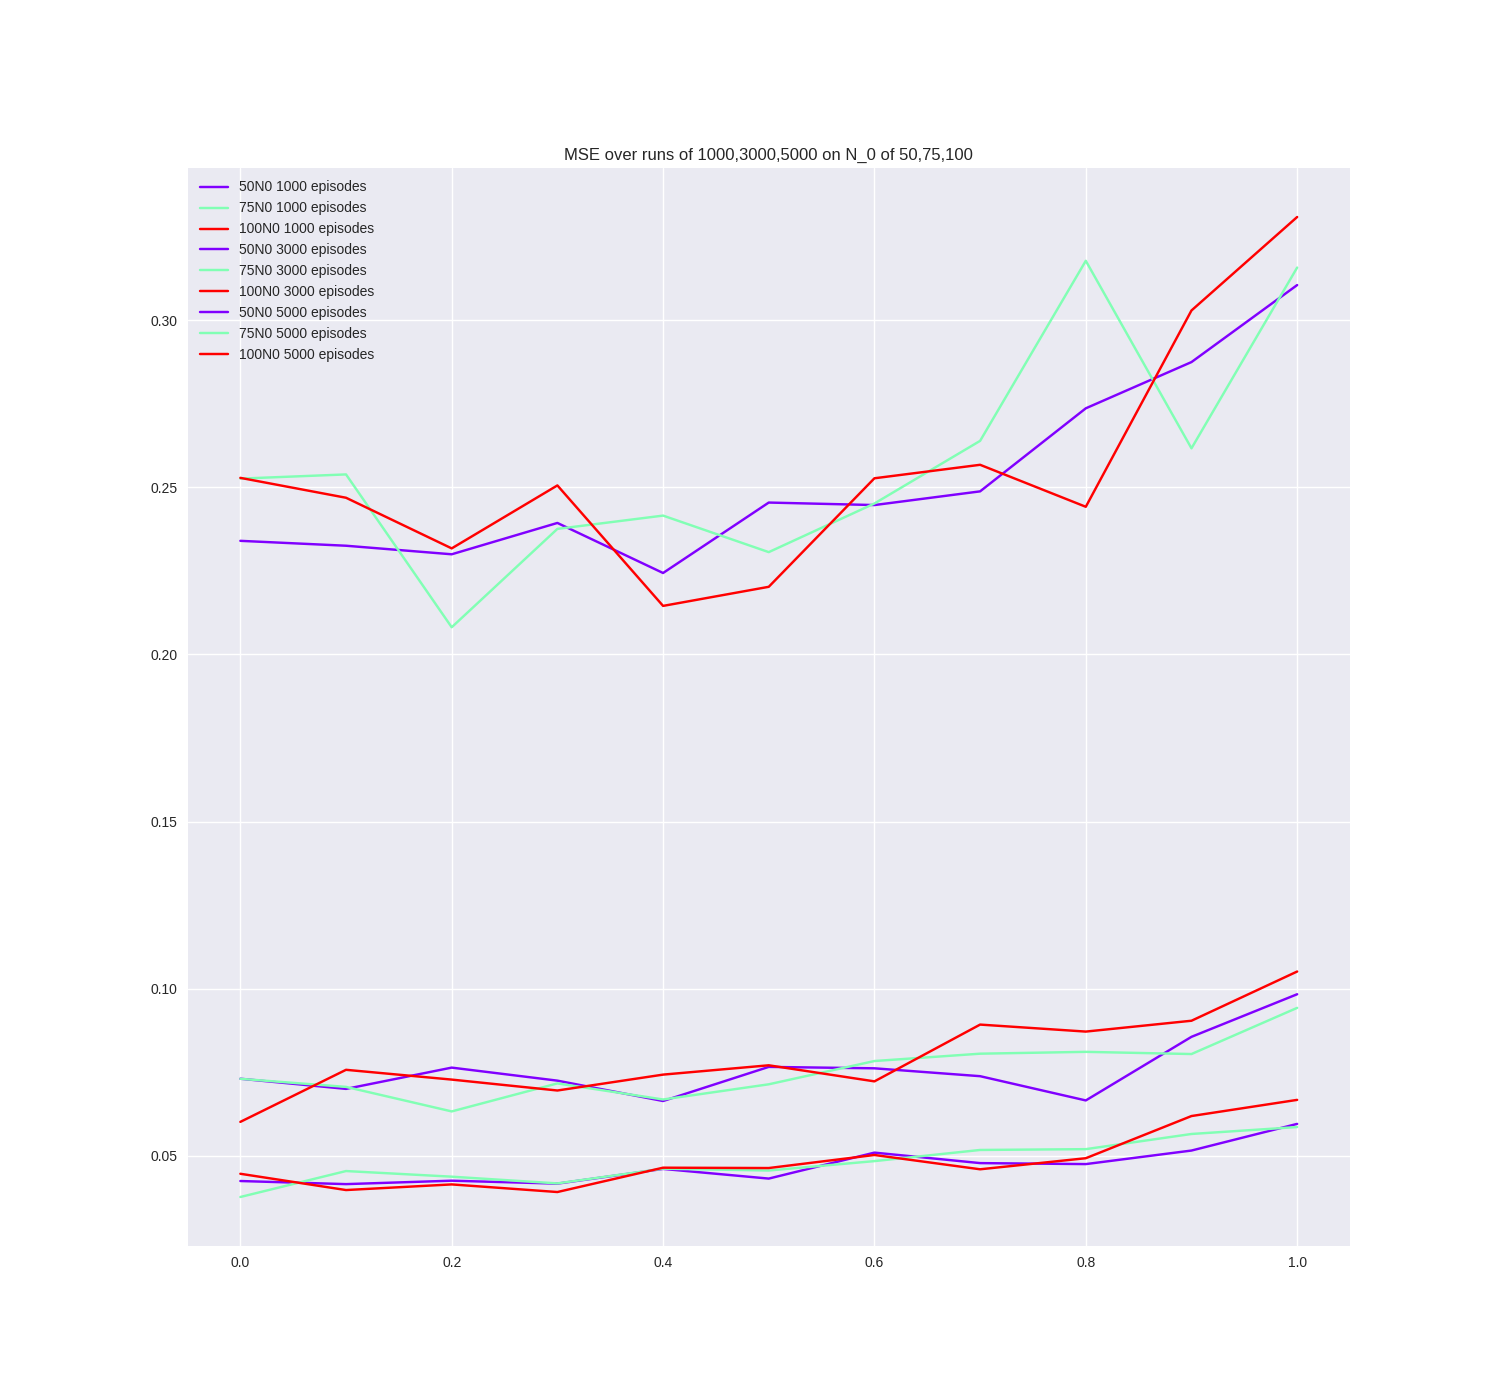
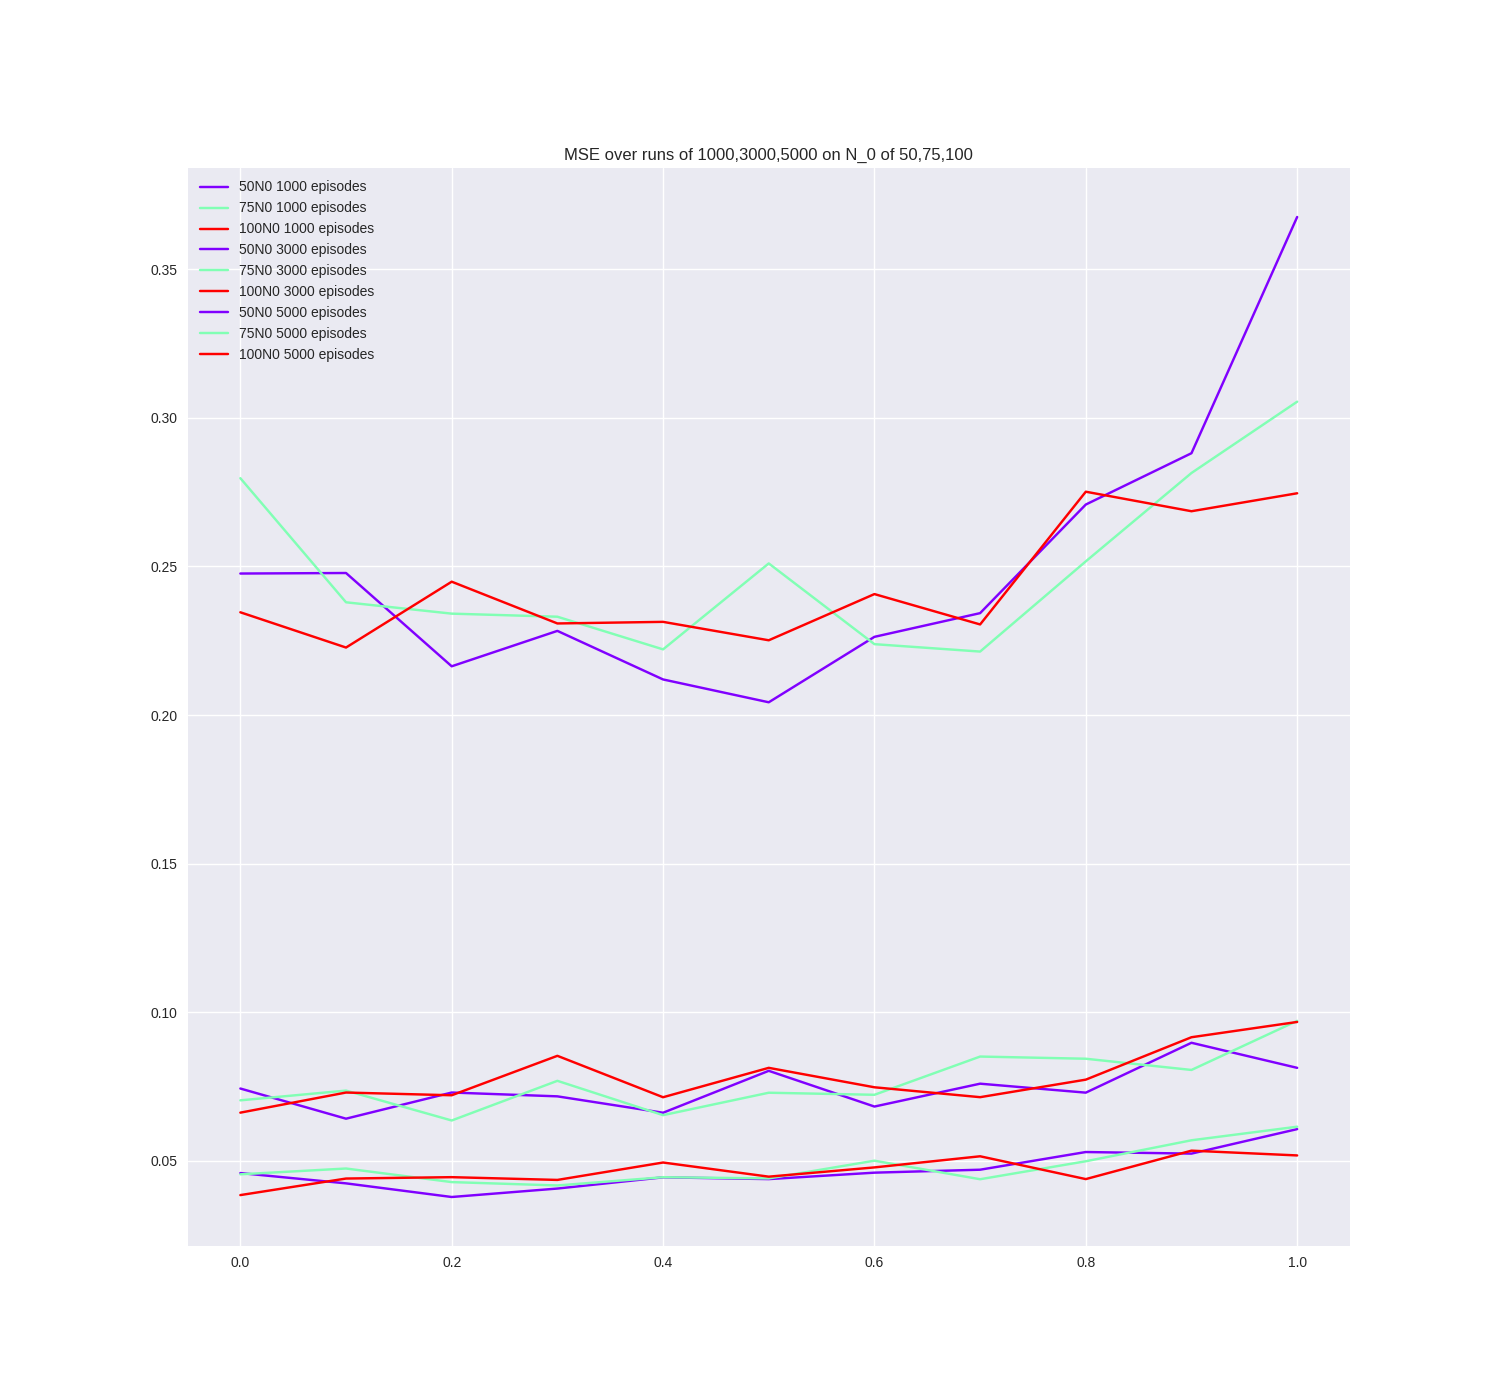
Finished linear func approximation

diff --git a/utilities/plot_surface_decision_bound.py b/utilities/plot_surface_decision_bound.py
@@ -34,28 +34,43 @@ def plot_Q(Q_inp,title='Surface_plot.png'):
 def plot_MSE_lambda(fun,lambs,Q_true,runs,N_0_s,**kwargs):
     '''Args should be 1) function, 2) set of lambdas, 3) the true Q 4) and a list of runs with the number of episodes.
     kwargs are extra arguments for f'''
-    colors = plt.cm.rainbow(np.linspace(0,1,len(runs))) if len(N_0_s) == 0 else plt.cm.rainbow(np.linspace(0,1,len(N_0_s)))
     fig,ax = plt.subplots()
-    for i,run in enumerate(runs):
-        for j,N0 in enumerate(N_0_s):
+    if N_0_s:
+        colors = plt.cm.rainbow(np.linspace(0,1,len(runs))) if len(N_0_s) == 0 else plt.cm.rainbow(np.linspace(0,1,len(N_0_s)))
+        for i,run in enumerate(runs):
+            for j,N0 in enumerate(N_0_s):
+                MSE_s=[]
+                for lambd in lambs:
+                    print('Running with {:.2f} lambda and {} N0 over {}'.format(lambd,N0,run))
+                    Q_l=fun(lamb=lambd, loops=run, **kwargs)
+                    MSE_s+=[np.sum(np.square(Q_l-Q_true))/Q_true.size]
+                color = i if len(N_0_s) == 0 else j
+                plt.plot(lambs,MSE_s,
+                         label=str(N0)+'N0'+' '+str(run)+' '+'episodes',
+                         color=colors[color])
+            handles, labels = ax.get_legend_handles_labels()
+            plt.legend(labels)
+        if len(N_0_s) > 0:
+            plt.title('MSE over runs of {} on N_0 of {}'.format(','.join([str(x) for x in runs]),
+                                                                ','.join([str(x) for x in N_0_s])))
+            fig.savefig('plots/MSE_against_lambda_{}_multiple_N0s.png'.format(fun.__name__))
+            return fig
+        plt.title('MSE over runs of {}'.format(','.join([str(x) for x in runs])))
+        fig.savefig('plots/MSE_against_lambda_{}.png'.format(fun.__name__))
+    else:
+        colors = plt.cm.rainbow(np.linspace(0,1,len(runs)))
+        for i,run in enumerate(runs):
             MSE_s=[]
             for lambd in lambs:
-                print('Running with {:.2f} lambda and {} N0 over {}'.format(lambd,N0,run))
                 Q_l=fun(lamb=lambd, loops=run, **kwargs)
                 MSE_s+=[np.sum(np.square(Q_l-Q_true))/Q_true.size]
-            color = i if len(N_0_s) == 0 else j
             plt.plot(lambs,MSE_s,
-                     label=str(N0)+'N0'+' '+str(run)+' '+'episodes',
-                     color=colors[color])
+                     label=str(run)+' '+'episodes',
+                     color=colors[i])
         handles, labels = ax.get_legend_handles_labels()
         plt.legend(labels)
-    if len(N_0_s) > 0:
-        plt.title('MSE over runs of {} on N_0 of {}'.format(','.join([str(x) for x in runs]),
-                                                            ','.join([str(x) for x in N_0_s])))
-        fig.savefig('plots/MSE_against_lambda_{}_multiple_N0s.png'.format(fun.__name__))
-        return fig
-    plt.title('MSE over runs of {}'.format(','.join([str(x) for x in runs])))
-    fig.savefig('plots/MSE_against_lambda_{}.png'.format(fun.__name__))
+        plt.title('MSE over runs of {}'.format(','.join([str(x) for x in runs])))
+        fig.savefig('plots/MSE_against_lambda_{}.png'.format(fun.__name__))
     return fig
 
 def plot_MSE_episodes(f,n_episodes,lambs,**kwargs):
@@ -67,7 +82,7 @@ def plot_MSE_episodes(f,n_episodes,lambs,**kwargs):
     for i,la in enumerate(lambs):
         print('Plotting MSE against ran of episodes for lambda'+' '+format(la,'.2f'))
         Q_i, MSE_s = f(lamb=la,loops=n_episodes,**kwargs)
-        plt.plot(range(1,n_episodes+1),MSE_s,color=colors[i],label=format(la,'.2f')+' '+'lambda',alpha=0.5)
+        plt.plot(np.arange(1,n_episodes+1,50),MSE_s,color=colors[i],label=format(la,'.2f')+' '+'lambda',alpha=0.5)
     handles, labels = ax.get_legend_handles_labels()
     plt.legend(labels)
     plt.title('Plot of MSE over 40000 episodes')

diff --git a/scripts/Sarsa_Lambda_Approximation.py b/scripts/Sarsa_Lambda_Approximation.py
@@ -1,0 +1,97 @@
+import sys
+import os
+import dotenv
+dotenv.load_dotenv('.env')
+from utilities.matrix_dimensions import useful_variables
+from utilities.moves import *
+from utilities.create_feature_vector import *
+from utilities.special_functions import inv0
+from utilities.plot_surface_decision_bound import plot_Q, plot_MSE_lambda, plot_MSE_episodes
+from utilities.create_feature_vector import *
+import pickle as pkl
+
+def temporal_difference_SARSA_LAMBDA_approximation(initial_guess=np.zeros(36),
+                                    lamb=0, loops=1000, N0=100, record=False):
+    act_to_ind = {0:'hit',1:'stick'}
+    param_vector = np.random.randn(36)/100
+    state = [np.random.randint(0,10),np.random.randint(0,21)]
+    E = np.zeros_like(initial_guess)
+    action = np.random.randint(0,2)
+    k=0
+    feat_vect = create_feature_vector(state,action)  #36 entries vector of zeros and ones
+    Q_x = param_vector @ feat_vect #scalar, approximation of action-value function at that state,action pair
+
+    e=0.05 #exploration probability
+    alpha=0.01 #step size
+    estimated_Q = np.empty((10,21,2))
+
+    if record:
+        import pickle as pkl
+        MSE_s = []
+        with open('final_data/Q_true.pkl','rb') as f:
+            Q_true = pkl.load(f)
+
+    while k<loops:
+        '''In each of these loops we are playing an episode
+           The loop starts with a state and action already selected (in previous episode or transition)'''
+        #print(state,action,feat_vect)
+        E += feat_vect #update elegibility traces
+
+        state_next,r,terminal = transition(state,act_to_ind[action])
+
+        if terminal:
+            '''We are at a terminal state'''
+            td_error=r-Q_x
+            param_vector += alpha*td_error*E
+            #print(state, action, param_vector)
+
+            state = [np.random.randint(0,10),np.random.randint(0,21)]
+            E=np.zeros_like(initial_guess)
+            action = np.random.randint(0,2)
+
+            k+=1
+
+            if record and k%50==0:
+                for ind,x in np.ndenumerate(estimated_Q):
+                    feat_vec = create_feature_vector(list(ind[:-1]),ind[-1])
+                    estimated_Q[ind] = param_vector @ feat_vec
+                MSE_s += [np.sum(np.square(estimated_Q-Q_true))/Q_true.size]
+            continue
+
+        action_next = pick_an_action_approximate_function(param_vector,state_next,e)
+        feat_vect_next = create_feature_vector(state_next,action_next)
+
+        Q_y = param_vector @ feat_vect_next
+        td_error = r+Q_y-Q_x
+
+        param_vector += E*alpha*td_error
+
+        E=E*lamb
+        state=state_next
+        action=action_next
+        Q_x = Q_y
+        feat_vect = feat_vect_next
+
+    for ind,x in np.ndenumerate(estimated_Q):
+        feat_vec = create_feature_vector(list(ind[:-1]),ind[-1])
+        estimated_Q[ind] = param_vector @ feat_vec
+
+    if record:
+        return estimated_Q, MSE_s
+
+    return estimated_Q
+
+if __name__=='__main__':
+    FINAL_DATA_DIR = os.environ.get('FINAL_DATA_DIR')
+    if not os.path.exists(os.path.join(FINAL_DATA_DIR,'Q_true.pkl')):
+        sys.exit('Run Monte Carlo script before to save true Q')
+    with open(os.path.join(FINAL_DATA_DIR,'Q_true.pkl'),'rb') as f:
+        Q_true=pkl.load(f)
+    # fig_1 = plot_MSE_lambda(temporal_difference_SARSA_LAMBDA_approximation,
+    #                         np.arange(0,1.1,0.1), Q_true,
+    #                         list(np.arange(1000,6000,2000)),
+    #                         None)
+
+    fig_2 = plot_MSE_episodes(temporal_difference_SARSA_LAMBDA_approximation,
+                              10000,list(np.linspace(0,1,4)),record=True,
+                              initial_guess=np.zeros(36))

diff --git a/utilities/create_feature_vector.py b/utilities/create_feature_vector.py
@@ -1,6 +1,35 @@
+import numpy as np
+from utilities.special_functions import cartesian_product
 
-def feature_extraction(s,a,inital_vector=initial_feature_vector):
-    '''Returns the 36 feature vector with ones at the right index/indices.
-    Vecto
-    initial_feature_vector[s[0],]'''
-    card = 
+ind_range=[range(0,10,3), range(4,13,3)]
+cols_range=[range(0,16,3),range(6,22,3)]
+
+def create_feature_vector_matrix(s,a,ind_range=ind_range, cols_range=cols_range):
+    initial_mat = np.zeros(36)
+    ind_matches=[]
+    col_matches=[]
+    for el,ser,cont in zip(s,[ind_range,cols_range],[ind_matches,col_matches]):
+        for ind,z in enumerate(zip(*ser)):
+            n,m=z
+            if el in range(n,m):
+                cont += [ind+1]
+    if a == 1:
+        res = 17+np.multiply.outer(ind_matches, col_matches)
+    else:
+        res = np.multiply.outer(ind_matches, col_matches)-1
+    initial_mat[res]=1
+    return initial_mat
+
+def create_feature_vector(s,a,ind_range=ind_range, cols_range=cols_range):
+    initial_mat = np.zeros((3,6,2))
+    ind_matches=[]
+    col_matches=[]
+    for el,ser,cont in zip(s,[ind_range,cols_range],[ind_matches,col_matches]):
+        for ind,z in enumerate(zip(*ser)):
+            n,m=z
+            if el in range(n,m):
+                cont += [ind]
+    all_matches = cartesian_product(np.array(ind_matches), np.array(col_matches))
+    all_m_ind, all_m_col = all_matches[:,0], all_matches[:,-1]
+    initial_mat[all_m_ind, all_m_col, a] = 1
+    return initial_mat.ravel()

diff --git a/utilities/moves.py b/utilities/moves.py
@@ -2,6 +2,7 @@ import sys
 import os
 sys.path.append(os.path.dirname(os.getcwd()))
 from utilities.matrix_dimensions import useful_variables
+from utilities.create_feature_vector import *
 import numpy as np
 from operator import add,sub
 
@@ -41,6 +42,18 @@ def pick_an_action(Q_inp,state,e):
     choice_new = np.random.choice(['max','random'],1,p=[1-e,e])[0]
     if choice_new == 'max':
         action_next = np.argmax(Q_inp[state[0],state[1]])
+    else:
+        action_next = np.random.randint(0,2)
+    return action_next
+
+def pick_an_action_approximate_function(param_vector, state, e):
+    choice_new = np.random.choice(['max','random'],1,p=[1-e,e])[0]
+    if choice_new == 'max':
+        feat_vect_hit = create_feature_vector(state,0)
+        Q_hit = param_vector @ feat_vect_hit
+        feat_vect_stick = create_feature_vector(state,1)
+        Q_stick = param_vector @ feat_vect_stick
+        action_next = np.argmax([Q_hit,Q_stick])
     else:
         action_next = np.random.randint(0,2)
     return action_next

diff --git a/utilities/matrix_dimensions.py b/utilities/matrix_dimensions.py
@@ -17,21 +17,6 @@ p_s[10:]=0.1*1/3
 
 initial_guess_Q=np.zeros((10,21,2))
 
-dataframe_vector=pd.DataFrame()
-ind_range=[range(0,10,3), range(4,13,3)]
-cols_range=[range(0,16,5),range(6,22,5)]
-feat_index=[]
-feat_cols=[]
-for ind,z in enumerate(zip(*ind_range)):
-    i,k=z
-    feat_index += list(np.arange(i,k))
-for ind,z in enumerate(zip(*cols_range)):
-    n,m=z
-    feat_cols += list(np.arange(n,m))
-iterables = [feat_index, ['hit','stick']]
-iterables_ind=pd.MultiIndex.from_product(iterables)
-initial_feature_vector = pd.DataFrame(index=iterables_ind,columns=feat_cols).sort_index()
-
 
 useful_variables = {'rew_matrix':rew_matrix,'possible_events':possible_events,
                     'p_s':p_s,'initial_guess_Q':initial_guess_Q

diff --git a/utilities/special_functions.py b/utilities/special_functions.py
@@ -6,3 +6,11 @@ def inv0(c):
         c = c**-1
         c[ ~ np.isfinite( c )] = 0  # -inf inf NaN
     return c
+
+def cartesian_product(*arrays):
+    la = len(arrays)
+    dtype = np.result_type(*arrays)
+    arr = np.empty([len(a) for a in arrays] + [la], dtype=dtype)
+    for i, a in enumerate(np.ix_(*arrays)):
+        arr[...,i] = a
+    return arr.reshape(-1, la)

diff --git a/scripts/Sarsa_Lambda.py b/scripts/Sarsa_Lambda.py
@@ -46,7 +46,7 @@ def temporal_difference_SARSA_LAMBDA(initial_guess,
 
             k+=1
 
-            if record:
+            if record and k%50==0:
                 MSE_s += [np.sum(np.square(Q_i-Q_true))/Q_true.size]
             continue
 
